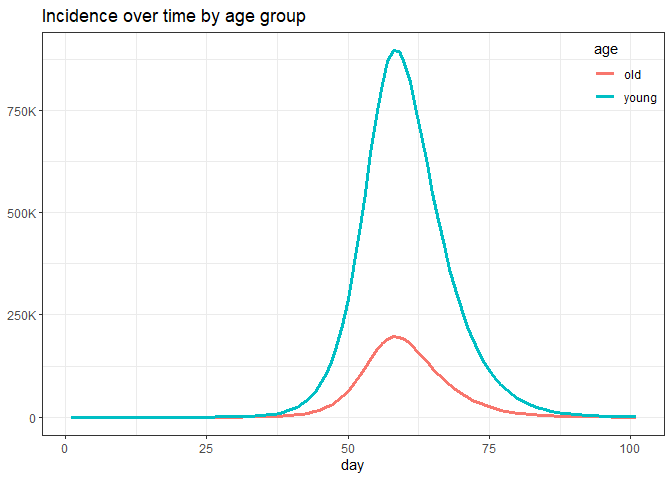
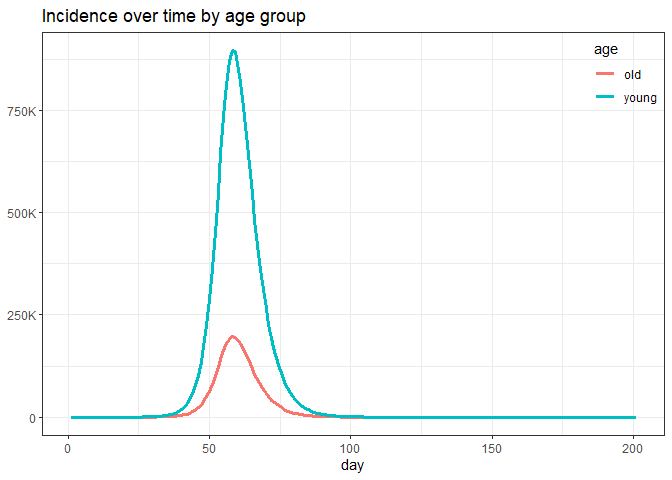
update README following default values format change

diff --git a/README.md b/README.md
@@ -29,6 +29,11 @@ You can install the development version of EPACmodel like so:
 
 ``` r
 library(EPACmodel)
+#> 
+#> Attaching package: 'EPACmodel'
+#> The following object is masked from 'package:stats':
+#> 
+#>     simulate
 ```
 
 ### Set up model simulator
@@ -41,7 +46,9 @@ This package includes several models whose simulators can quickly and
 easily be retrieved. Available models include:
 
 ``` r
-list_models()
+EPACmodel::list_models()
+#> [1] "five-year-age-groups"         "two-age-groups"              
+#> [3] "two-age-groups_interventions"
 ```
 
 To get this model’s simulator, we simply call:
@@ -55,37 +62,43 @@ model_simulator <- make_simulator(
 
 By default, `make_simulator()` will attach a set of default parameters
 and initial states to the model structure. It will also set a default
-number of time steps. Any of these can be changed by passing additional,
-optional, arguments to `make_simulator()`. We recommend first loading
-the default parameters and/or states, and then editing the values in
-these lists in-session, to ensure the format of each object is
+number of time steps. Any of these can be changed by passing the
+optional `update.values` argument to `make_simulator()`. We recommend
+first loading the default parameters and/or states, and then editing the
+values in these lists in-session, to ensure the format of each object is
 compatible with the model definition and `macpan2`:
 
 ``` r
-default_params = get_params(model.name)
-print("default params:")
-print(default_params)
-
-default_state = get_state(model.name)
+# load default values (inital state, params, etc.)
+default.values = get_default_values(model.name)
+default.state = default.values$state
 print("default state:")
-print(default_state)
+#> [1] "default state:"
+print(default.state)
+#>      S_y      R_y      E_y      I_y      H_y      D_y      S_o      R_o 
+#> 31400000        0        1        1        0        0  6900000        0 
+#>      E_o      I_o      H_o      D_o 
+#>        1        1        0        0
 
 # move some young susceptibles to the recovered class
-new_state = default_state
-new_state["R_y"] = 1000
-new_state["S_y"] = default_state["S_y"] - new_state["R_y"]
+new.state = default.state
+new.state["R_y"] = 1000
+new.state["S_y"] = default.state["S_y"] - new.state["R_y"]
 print("new state:")
-print(new_state)
+#> [1] "new state:"
+print(new.state)
+#>      S_y      R_y      E_y      I_y      H_y      D_y      S_o      R_o 
+#> 31399000     1000        1        1        0        0  6900000        0 
+#>      E_o      I_o      H_o      D_o 
+#>        1        1        0        0
 ```
 
-Then you can pass the modified params and/or state to
-`make_simulator()`:
+Now we pass the modified params and/or state to `make_simulator()`:
 
 ``` r
 new_model_simulator = make_simulator(
   model.name = model.name,
-  state = new_state,
-  time_steps = 200
+  updated.values = list(state = new.state)
 )
 ```
 
@@ -105,6 +118,13 @@ This output will include the value of each state at the given time
  |> dplyr::filter(value_type == 'state', time == 10)
  |> head()
 )
+#>   time state_name value_type        value
+#> 1   10        S_y      state 3.139988e+07
+#> 2   10        E_y      state 7.888172e+01
+#> 3   10        I_y      state 2.644023e+01
+#> 4   10        H_y      state 5.068467e+00
+#> 5   10        R_y      state 7.329988e+00
+#> 6   10        D_y      state 7.329988e-01
 ```
 
 as well as the inflow into each compartment at a given time
@@ -116,6 +136,13 @@ for instance:
  |> dplyr::filter(value_type == 'total_inflow', time == 10)
  |> head()
 )
+#>   time state_name   value_type      value
+#> 1   10        S_y total_inflow  0.0000000
+#> 2   10        R_y total_inflow 33.1027030
+#> 3   10        E_y total_inflow 11.4447547
+#> 4   10        I_y total_inflow  1.8981620
+#> 5   10        H_y total_inflow  2.2543761
+#> 6   10        D_y total_inflow  0.2254376
 ```
 
 We can plot the results using standard data manipulation and plotting
@@ -155,6 +182,58 @@ plot_output <- function(output){
 plot_output(sim_output)
 ```
 
+<img src="man/figures/README-sim-output-1-1.png" width="100%" />
+
 ## Available models
 
-# `{r, child = model_readmes, echo = FALSE} #`
+### “five-year-age-group” model
+
+This version of the model features a basic epidemiological structure
+stratified with five-year age groups up to age 80. The epidemiological
+compartments are:
+
+- $S$: susceptible
+- $E$: exposed
+- $I$: infected
+- $H$: hospitalized
+- $R$: recovered
+- $D$: dead
+
+The flows within each age group are as follows:
+
+![](man/figures/README-two-age-groups_flow-diagram.png)
+
+The solid lines indicate flows between compartments and the dashed lines
+indicate when a compartment is involved in calculating a flow rate.
+
+Contact matrices are from Mistry et al.
+
+(TODO: discuss contact matrices further)
+
+### “two-age-group” model
+
+This version of the model features a basic epidemiological structure
+stratified with two age groups: young and old. The epidemiological
+compartments are:
+
+- $S$: susceptible
+- $E$: exposed
+- $I$: infected
+- $H$: hospitalized
+- $R$: recovered
+- $D$: dead
+
+The flows within each age group are as follows:
+
+![](man/figures/README-two-age-groups_flow-diagram.png)
+
+The solid lines indicate flows between compartments and the dashed lines
+indicate when a compartment is involved in calculating a flow rate.
+
+### “two-age-group_interventions” model
+
+This version of the model builds on the “two-age-group” model by
+incorporating two time-based interventions that reduce the transmission
+rate. The reductions occur on time steps 40 and 50 of the simulation,
+and reduce the transmission rate by 50% and 30% of its original value,
+respectively.
